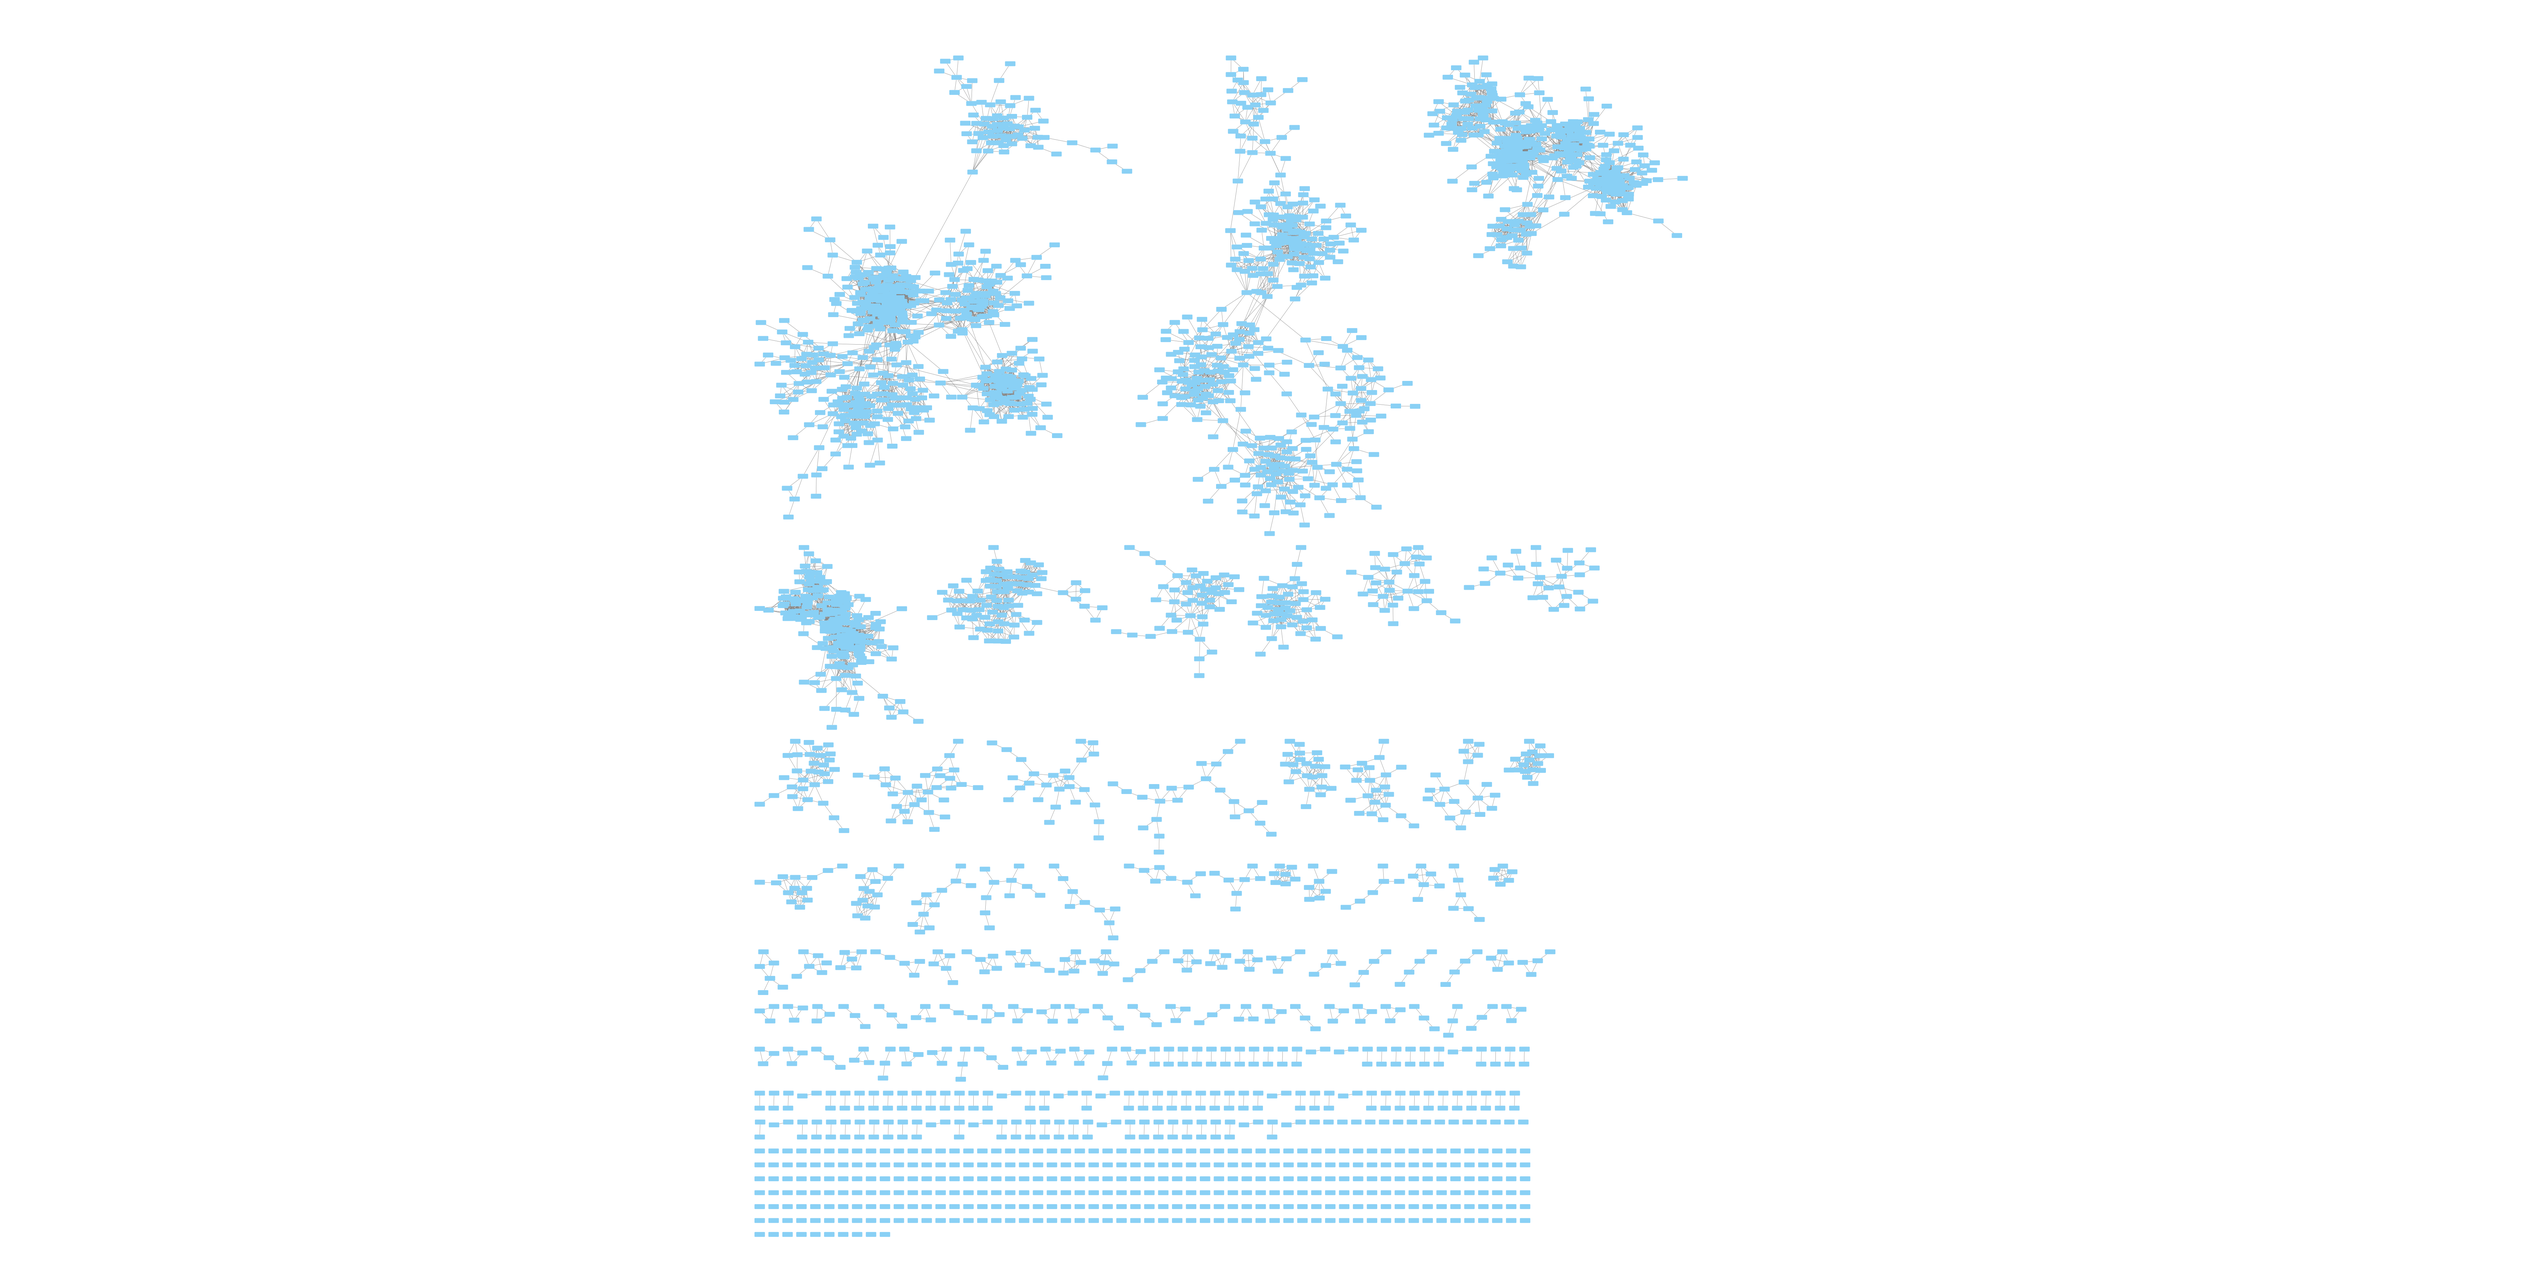
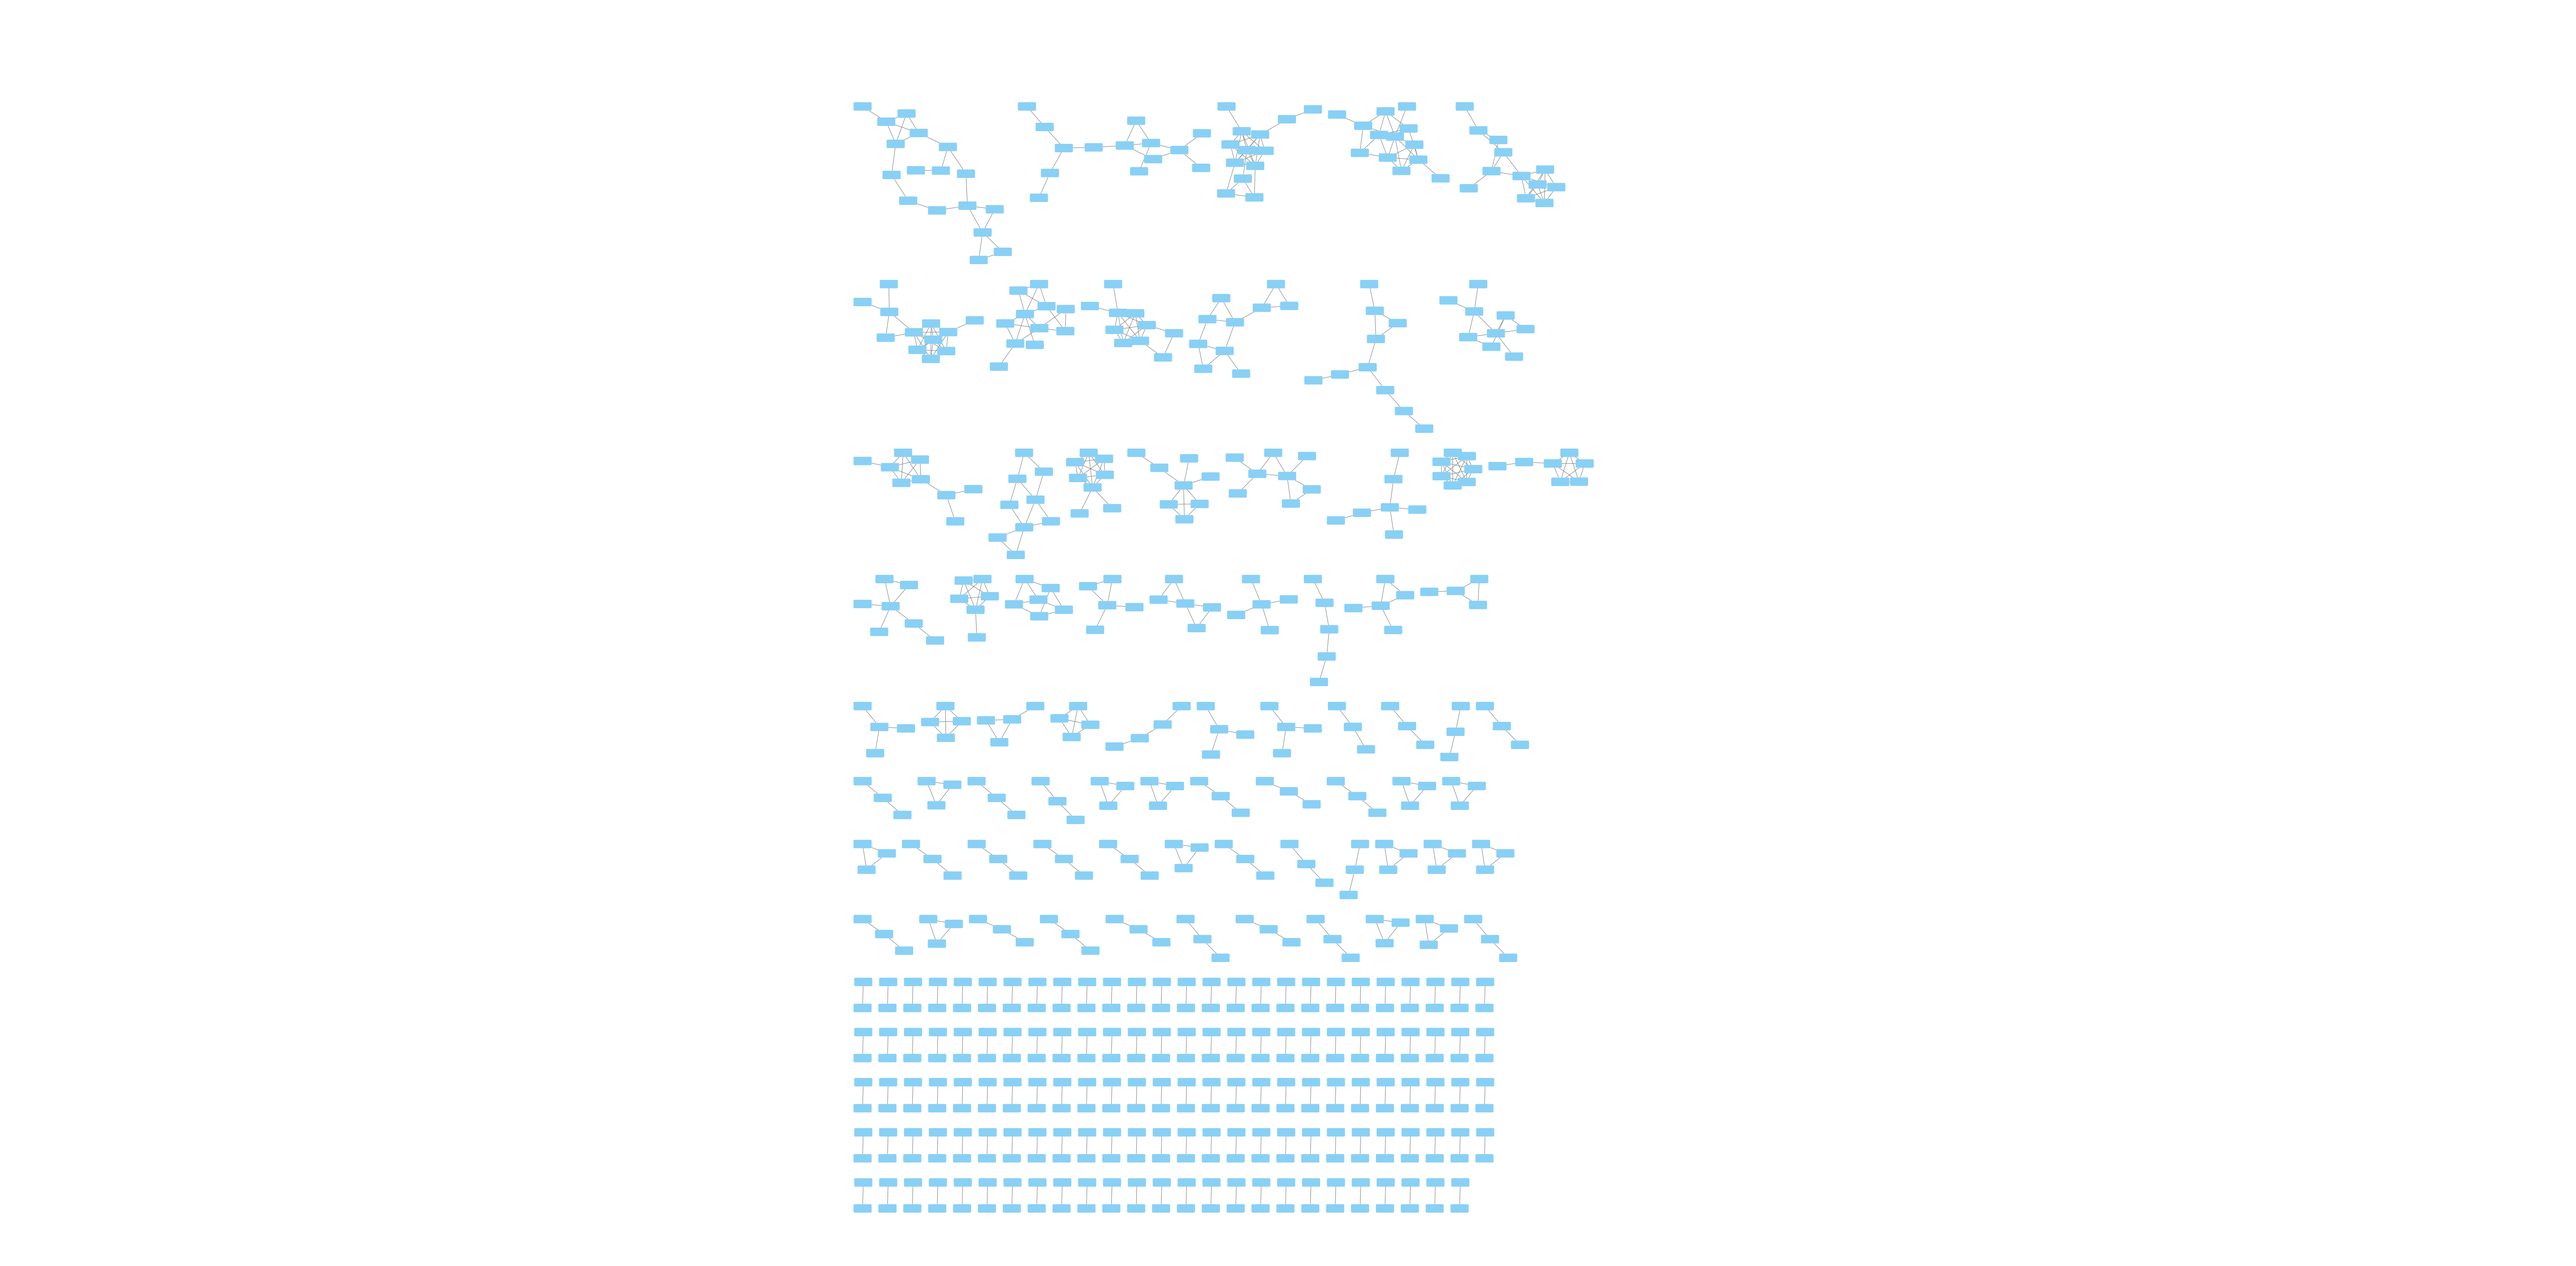
Data visualization and annotation

Changed region(s): [[0.2808, 0.0312, 0.6552, 0.9671]]

diff --git a/docs/analyzing/visualization.md b/docs/analyzing/visualization.md
@@ -1,15 +1,14 @@
 ---
 layout: default
 title: Visualization
-nav_order: 1
+nav_order: 3
 parent: Analyzing
-
 ---
 
 
 ## Visualization
 
-Visualization of immune repertoires can be a daunting task. Here we provide a brief tutorial of how ClusTCR's output can be used to visualize your data in Cytoscape. Unfortunately, due to memory-related limitations, Cytoscape can only handle repertoires of limited size.
+Visualization of immune repertoires can be a daunting task. Here we provide a brief tutorial of how ClusTCR's output can be used to visualize your data in **[Cytoscape](https://cytoscape.org/)**. Unfortunately, due to memory-related limitations, Cytoscape can only handle repertoires of limited size.
 
 This tutorial assumes that you have already installed Cytoscape on your device. If this is not the case, you can find the appropriate download for you OS via this link: [https://cytoscape.org/download.html](https://cytoscape.org/download.html).
 
@@ -17,16 +16,16 @@ This tutorial assumes that you have already installed Cytoscape on your device. 
 
 The first step in visualizing your clustering results is creating the appropriate Cytoscape input files. These consist of one edge list (containing all pairs of sequences between which an edge must be drawn) and a node list (containing a data frame of all nodes with some annotation, such as the clusters they belong to).
 
-You can retrieve the edge list from a `ClusteringResult` object, by applying the `export_network()` method on it. This method take a *filename* parameter, for which you can specify the name and location where the edge list should be exported to. If no file name is provided, ClusTCR will save the edge list in a file with a generic name (*clusTCR_network.txt*) in your current working directory. The edge list is saved as a tab-separated text file.
+You can retrieve the edge list from a `ClusteringResult` object, by applying the `export_network()` method on it. This method take a *filename* parameter, for which you can specify the name and location where the edge list should be exported to. If no file name is provided, ClusTCR will save the edge list in a file with a generic name (*clusTCR_network.txt*) in your current working directory. The edge list is saved as a tab-separated text file of all CDR3 amino acid sequence pairs that have an **exact edit-distance** (Hamming distance) **of 1**.
 
 ```python
-edges = output.export_network(filename='/home/path_to_output/my_clustcr_network.txt')
+edges = output.export_network(filename='/home/path_to_output/my_clustcr_edgelist.txt')
 ```
 
 The node list simply corresponds to the `clusters_df` output. Simply save this result by applying the `write_to_csv()` method on a `ClusteringResult` object.
 
 ```python
-output.write_to_csv()
+output.write_to_csv(filename='/home/path_to_output/my_clustcr_nodelist.txt')
 ```
 
 ### 2. Importing the data in Cytoscape
@@ -39,4 +38,12 @@ Open Cytoscape and start by importing the network from the edge list you just cr
     <img src="example_network.png" alt="drawing" width="500"/>
 </p>
 #### 2.2. Adding cluster annotations
+
+The next step is annotating the network with the IDs of the identified clusters. To do this, we need to import the node list, which contains all the CDR3 sequences in the network along with their corresponding cluster IDs assigned to them. Import the table by selecting *File > Import > Table from File...* and choose the appropriate delimiter in the *Advanced Options...* menu. Then click *OK* to import the table.
+
+To visualize the clusters in the network, you can color each node according to its assigned cluster ID. Go to *Style* and select the *Mapping* function of the *Fill Color* property. Then choose the *cluster* column to map onto the network. Select *Discrete Mapping* and then right-click on *Fill Color* to select one of the *Mapping Value Generators*.
+
+<p align="center">
+    <img src="example_network_annotated.png" alt="drawing" width="500"/>
+</p>
 
